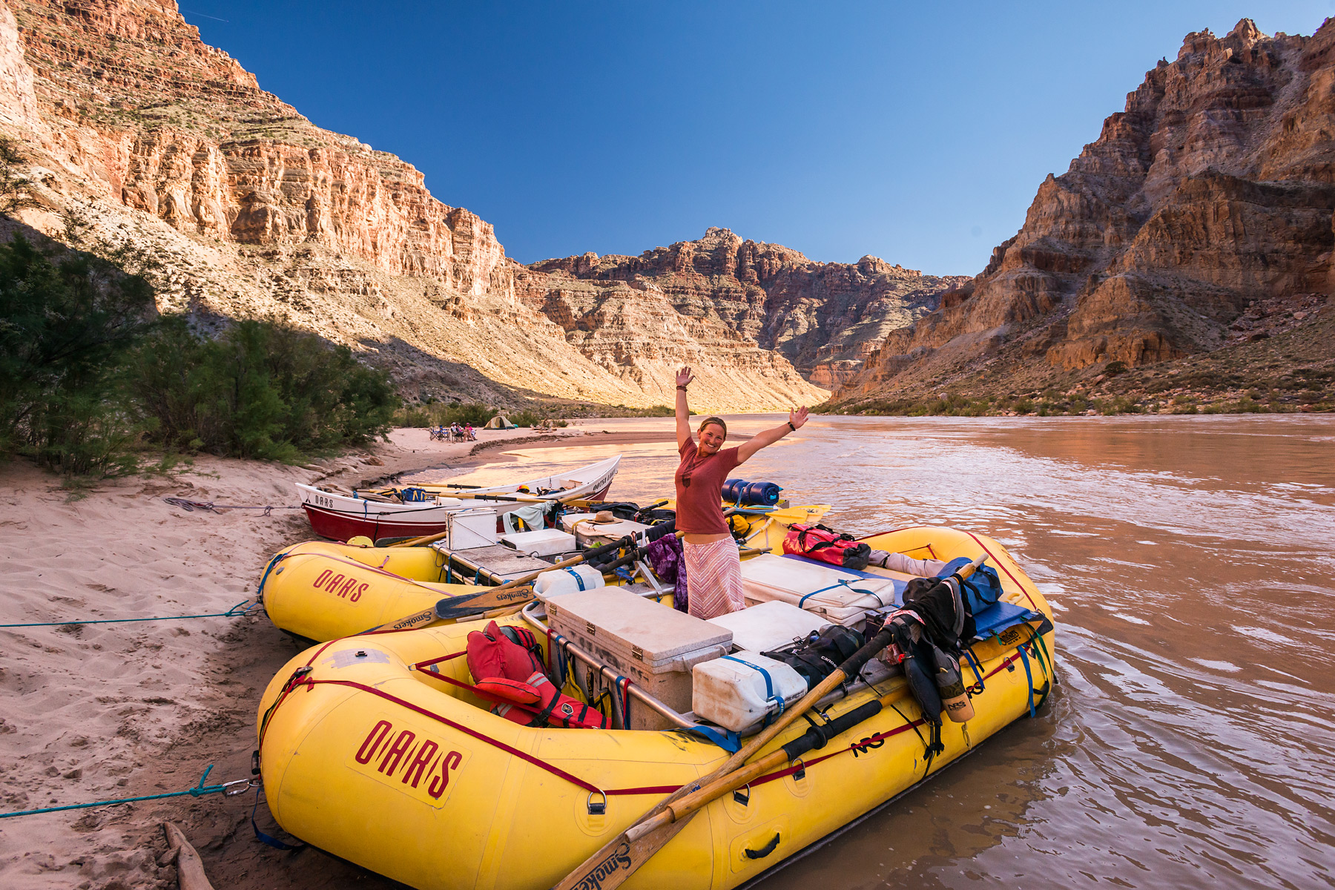
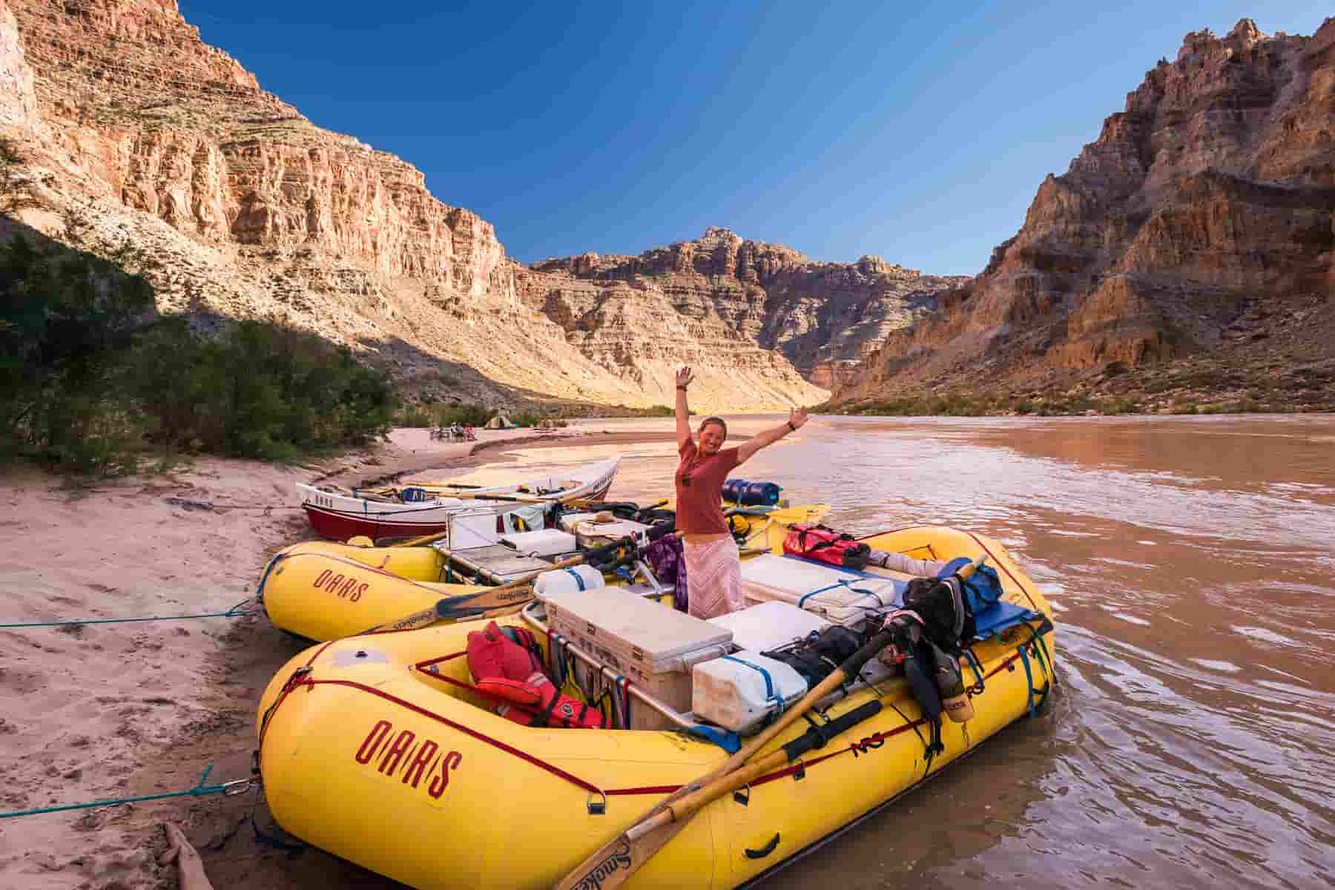
compressed all images

diff --git a/wwr/styles/rafting.css b/wwr/styles/rafting.css
@@ -9,11 +9,7 @@
 }
 
 /* universal selector reset */
-* {
-  margin: 0;
-  padding: 0;
-  box-sizing: border-box;
-}
+* { margin: 0; padding: 0; box-sizing: border-box; }
 
 body{
   font-family: var(--body-font);
